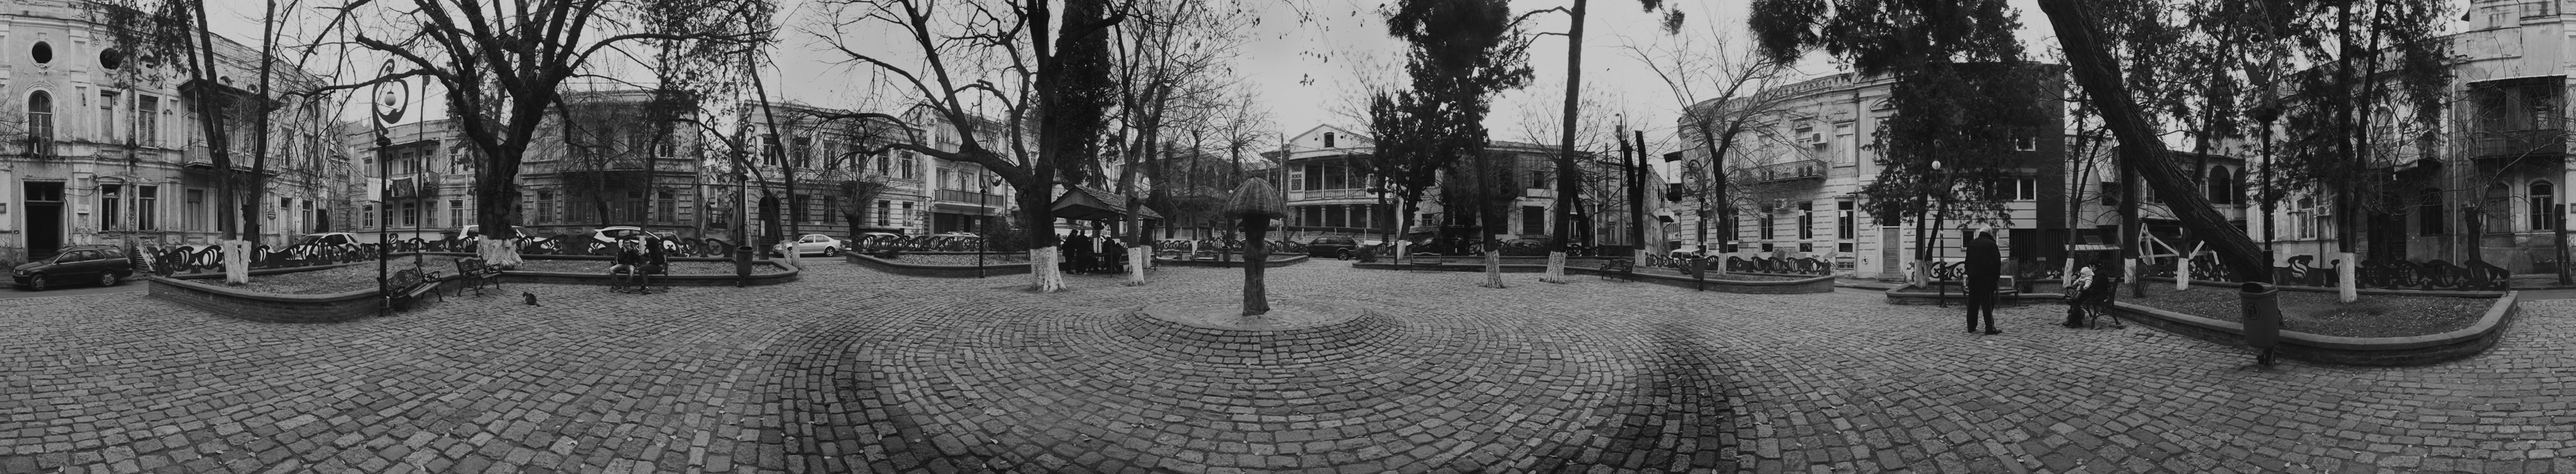
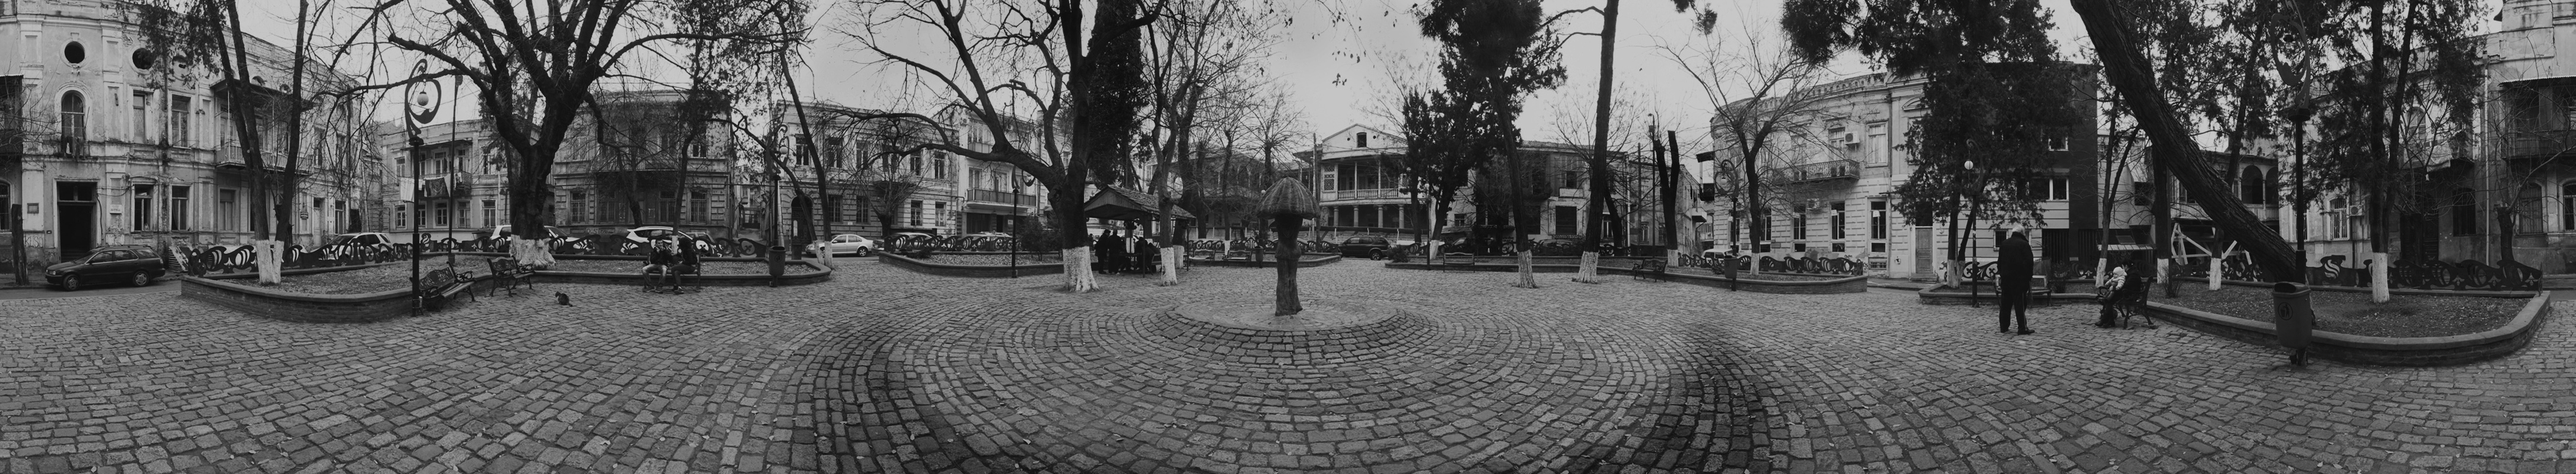
smaller img; turn on animation

diff --git a/app/assets/javascripts/timeline.js b/app/assets/javascripts/timeline.js
@@ -202,16 +202,26 @@ $(document).ready(function() {
       $('#panorama').prop('src', '/assets/bg_static.jpg');
     }
     
+    
+    
     // adjust image to start with statue in middle of circle
-    var orig_w = 1905;
-    var orig_f = 580;
-    var ratio = 0.255
-    var new_f = (orig_w-$(window).width())*ratio+orig_f;
+    // formula: (frames to middle) - ( (1/2 width of screen) / (frame width) )
+    var img_ratio = $(window).height() / $('#panorama').data('orig-height');
+    var new_width = $('#panorama').data('orig-width') * img_ratio;
+    var frames_middle = 1086;
+    var frame_width = new_width / $('#panorama').data('frames');
+    var new_f = frames_middle - ($(window).width()/2/frame_width);
 
     // make image fit height of screen
     var panoramaResize = function()
     {
-      $('#panorama').css('height', $(window).height()).css('background-size',  '4344px ' + $(window).height() + 'px');        
+      var ratio = $(window).height() / $('#panorama').data('orig-height');
+      var new_height = $('#panorama').data('orig-height') * ratio;
+      var new_width = $('#panorama').data('orig-width') * ratio;
+      $('#panorama').css('height', new_height).css('background-size',  new_width + 'px ' + new_height + 'px');        
+//      $('#panorama').css('height', new_height).css('background-size',  '4344px ' + new_height + 'px');        
+//      $('#panorama').css('width', new_width);        
+      $('#panorama').data('stitched', new_width);        
       $('#panorama-reel').css('height', $(window).height());
     }
     panoramaResize();
@@ -223,10 +233,10 @@ $(document).ready(function() {
       $('#timeline-embed').css('height', String($(window).height()-$('.navbar').height()-$('footer').height()) + "px");
     }
     
-    // if this is not a small screen, turn on the scrolling panaorame
+    // if this is not a small screen, turn on the scrolling panaorama
     if ($(window).width() > 978){
       $('#panorama').data('frame', new_f);
-//      $('#panorama').reel($('#panorama').data());
+      $('#panorama').reel($('#panorama').data());
     }
 
 

diff --git a/app/assets/stylesheets/timeline_layout.css.less b/app/assets/stylesheets/timeline_layout.css.less
@@ -32,7 +32,7 @@ body#body_timeline {
       width:474px;
       height:474px;
       position:absolute;
-      top: 25%;
+      top: 27%;
       left: 50%;
       margin-left: -237px;
 /*      margin-top: -237px; */
@@ -79,7 +79,7 @@ body#body_timeline {
         position:absolute;
         z-index:160;
         left:50%;
-        bottom: -165px;
+        bottom: -155px;
         margin-left:-5em;
         background:transparent;
         width:10em;
